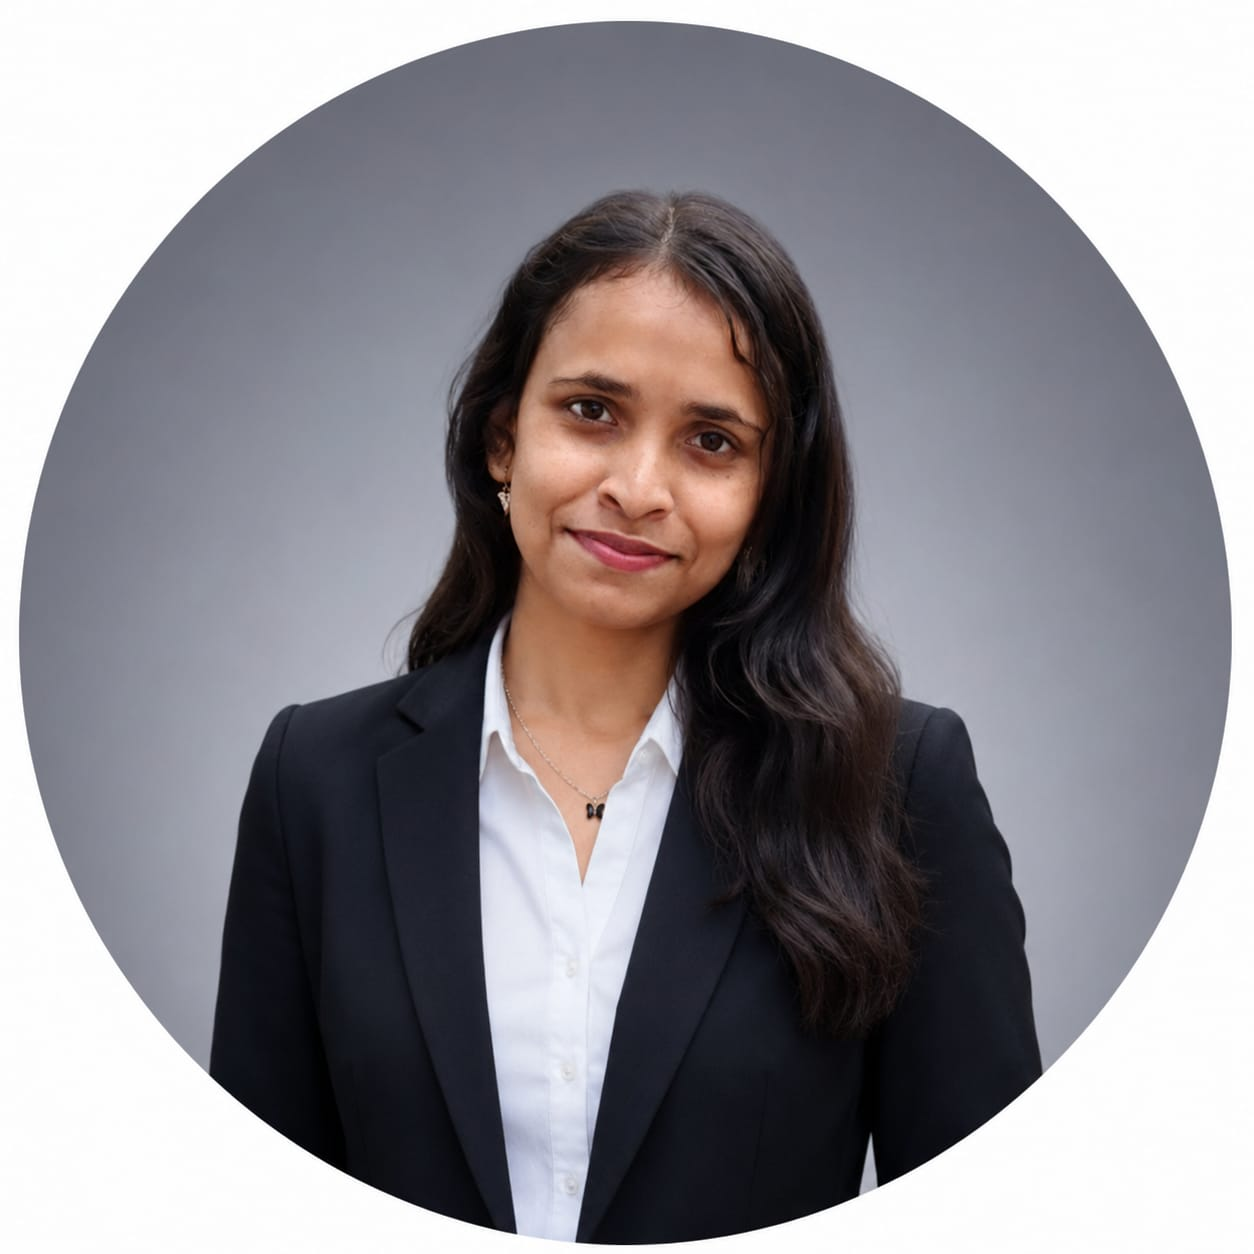
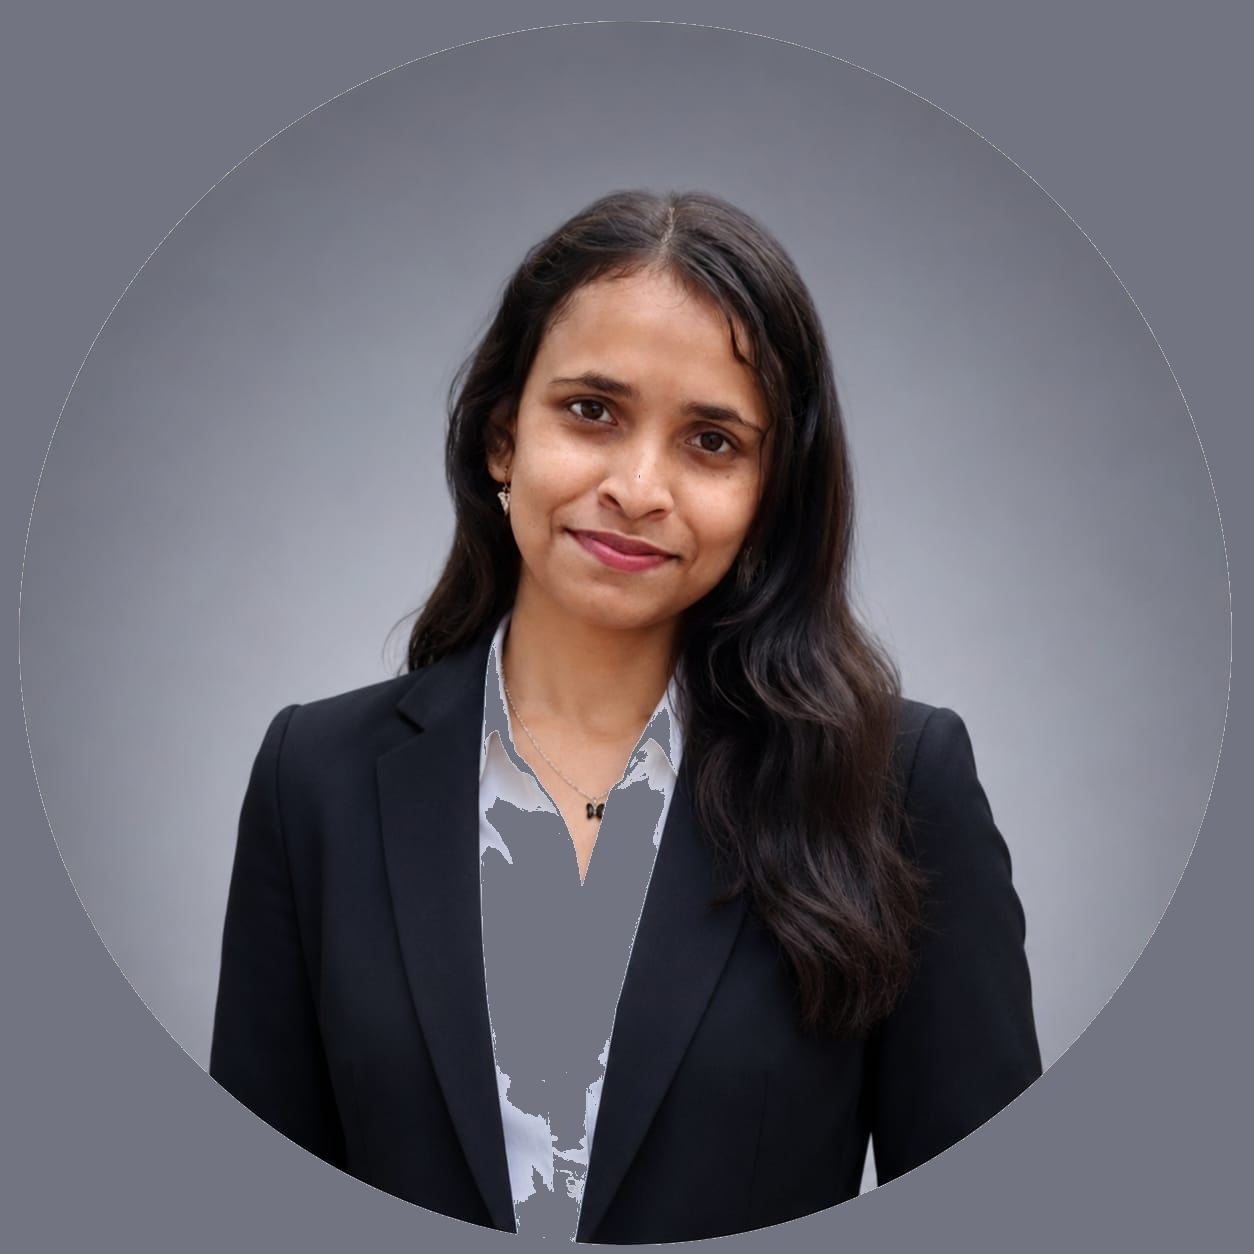
Replace white background pixels in profile image with studio grey and reset image scale to uncropped natural position

Changed region(s): [[0.0, 0.0, 1.0, 1.0], [0.3732, 0.5287, 0.4043, 0.5909]]

diff --git a/src/components/About.tsx b/src/components/About.tsx
@@ -79,13 +79,13 @@ export default function About() {
           >
             <motion.div 
               variants={itemVariants} 
-              className="relative w-full h-full min-h-[380px] lg:min-h-[420px] rounded-[32px] overflow-hidden glass-panel border border-[#CFE8D6]/20 shadow-[0_20px_50px_rgba(18,27,22,0.9)] group bg-[#70757d]"
+              className="relative w-full h-full min-h-[380px] lg:min-h-[420px] rounded-[32px] overflow-hidden glass-panel border border-[#CFE8D6]/20 shadow-[0_20px_50px_rgba(18,27,22,0.9)] group bg-[#727481]"
             >
               <Image 
                 src="/saptaparni-profile-v2.jpg"
                 alt="Saptaparni Saha"
                 fill
-                className="object-cover scale-[1.15] object-[center_12%] transition-transform duration-700 group-hover:scale-[1.18]"
+                className="object-cover scale-[1.04] object-center transition-transform duration-700 group-hover:scale-[1.08]"
               />
               <div className="absolute inset-0 bg-gradient-to-t from-[#25332B]/70 via-transparent to-transparent opacity-60 pointer-events-none" />
             </motion.div>
